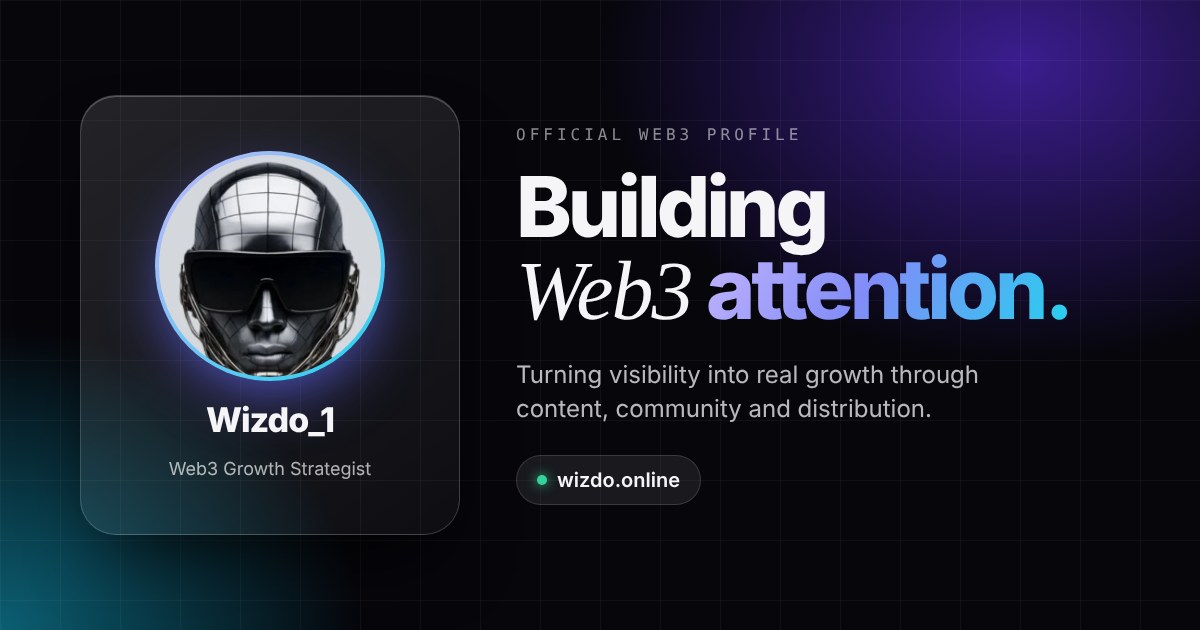
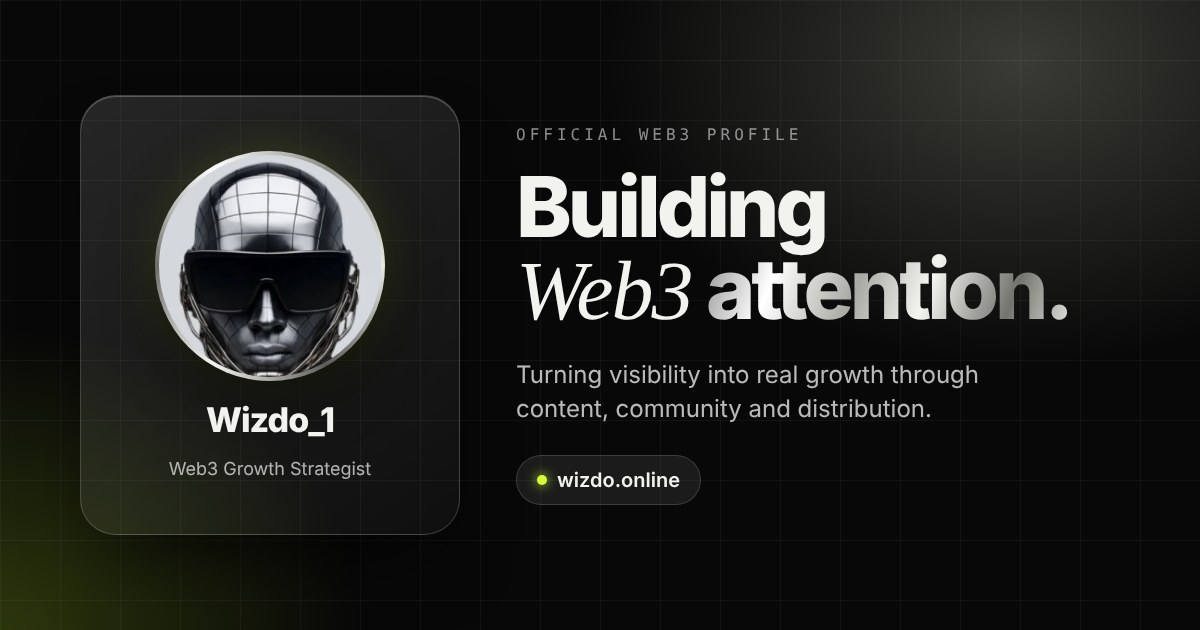
Portfolio: chrome and acid-lime palette, justinn.io credit
- Replace the purple/cyan palette with brushed-chrome text gradients,
  graphite background glows and a single acid-lime accent
- Primary buttons, status dots, progress bar and small highlights use
  the accent; icon tiles are neutral glass
- Regenerate the share image in the new palette
- Footer credit now reads 'Made by justinn.io' linking to Instagram

Claude-Session: https://claude.ai/code/session_013AsVQGULiKKyyoMFEATPju

diff --git a/portfolio/styles.css b/portfolio/styles.css
@@ -4,19 +4,21 @@
    ========================================================= */
 
 :root {
-  --bg: #06060b;
-  --bg-2: #0b0b14;
-  --text: #f5f5f7;
-  --text-2: rgba(245, 245, 247, 0.72);
-  --text-3: rgba(245, 245, 247, 0.48);
+  --bg: #080808;
+  --bg-2: #101010;
+  --text: #f2f2ee;
+  --text-2: rgba(242, 242, 238, 0.70);
+  --text-3: rgba(242, 242, 238, 0.46);
 
-  --violet: #a78bfa;
-  --indigo: #6366f1;
-  --cyan: #22d3ee;
-  --pink: #f472b6;
-  --green: #34d399;
+  /* One accent: acid lime. Everything else is chrome/graphite. */
+  --accent: #d4ff3a;
+  --accent-rgb: 212, 255, 58;
+  --violet: #e8e8e3;   /* legacy name: now silver */
+  --cyan: var(--accent);
+  --green: var(--accent);
 
-  --grad: linear-gradient(120deg, #c4b5fd 0%, #818cf8 35%, #22d3ee 70%, #a5f3fc 100%);
+  /* Brushed chrome, to match the portrait */
+  --grad: linear-gradient(110deg, #8c8c8c 0%, #ffffff 20%, #a9a9a4 42%, #f4f4f0 60%, #74746f 82%, #e9e9e4 100%);
 
   /* Glass material */
   --glass-bg: linear-gradient(145deg, rgba(255, 255, 255, 0.085), rgba(255, 255, 255, 0.025));
@@ -78,7 +80,7 @@ img, svg { display: block; }
   stroke-linecap: round; stroke-linejoin: round;
   overflow: visible;
 }
-::selection { background: rgba(167, 139, 250, 0.4); color: #fff; }
+::selection { background: rgba(255, 255, 255, 0.4); color: #fff; }
 
 :focus-visible {
   outline: 2px solid var(--cyan);
@@ -159,8 +161,8 @@ img, svg { display: block; }
    Background
    ========================================================= */
 .bg { position: fixed; inset: 0; z-index: -2; overflow: hidden; background:
-  radial-gradient(1200px 800px at 80% -10%, #15123a 0%, transparent 60%),
-  radial-gradient(900px 700px at -10% 30%, #0c1d33 0%, transparent 60%),
+  radial-gradient(1200px 800px at 80% -10%, #1b1b1b 0%, transparent 60%),
+  radial-gradient(900px 700px at -10% 30%, #121212 0%, transparent 60%),
   var(--bg); }
 .blob {
   position: absolute;
@@ -169,10 +171,10 @@ img, svg { display: block; }
   opacity: 0.55;
   will-change: transform;
 }
-.b1 { width: 46vmax; height: 46vmax; left: -10vmax; top: -12vmax; background: radial-gradient(circle, #6d28d9 0%, transparent 65%); animation: drift1 24s ease-in-out infinite alternate; }
-.b2 { width: 40vmax; height: 40vmax; right: -12vmax; top: 10vh; background: radial-gradient(circle, #0891b2 0%, transparent 65%); animation: drift2 28s ease-in-out infinite alternate; }
-.b3 { width: 34vmax; height: 34vmax; left: 20vw; bottom: -14vmax; background: radial-gradient(circle, #be185d 0%, transparent 65%); opacity: .35; animation: drift3 32s ease-in-out infinite alternate; }
-.b4 { width: 26vmax; height: 26vmax; right: 18vw; bottom: 10vh; background: radial-gradient(circle, #4338ca 0%, transparent 65%); animation: drift1 36s ease-in-out infinite alternate-reverse; }
+.b1 { width: 46vmax; height: 46vmax; left: -10vmax; top: -12vmax; background: radial-gradient(circle, #4a4a46 0%, transparent 65%); animation: drift1 24s ease-in-out infinite alternate; }
+.b2 { width: 40vmax; height: 40vmax; right: -12vmax; top: 10vh; background: radial-gradient(circle, #3b4512 0%, transparent 65%); animation: drift2 28s ease-in-out infinite alternate; }
+.b3 { width: 34vmax; height: 34vmax; left: 20vw; bottom: -14vmax; background: radial-gradient(circle, #5c5c58 0%, transparent 65%); opacity: .35; animation: drift3 32s ease-in-out infinite alternate; }
+.b4 { width: 26vmax; height: 26vmax; right: 18vw; bottom: 10vh; background: radial-gradient(circle, #2e2e2c 0%, transparent 65%); animation: drift1 36s ease-in-out infinite alternate-reverse; }
 @keyframes drift1 { to { transform: translate3d(14vw, 18vh, 0) scale(1.15); } }
 @keyframes drift2 { to { transform: translate3d(-18vw, 24vh, 0) scale(.9); } }
 @keyframes drift3 { to { transform: translate3d(-10vw, -20vh, 0) scale(1.2); } }
@@ -199,17 +201,17 @@ img, svg { display: block; }
 
 .spotlight {
   position: fixed; inset: 0; z-index: -1; pointer-events: none;
-  background: radial-gradient(600px circle at var(--sx, 50%) var(--sy, 30%), rgba(129, 140, 248, 0.10), transparent 40%);
+  background: radial-gradient(600px circle at var(--sx, 50%) var(--sy, 30%), rgba(255, 255, 255, 0.10), transparent 40%);
   transition: opacity .4s;
 }
 @media (hover: none) { .spotlight { display: none; } }
 
 .progress {
   position: fixed; top: 0; left: 0; right: 0; height: 2px; z-index: 100;
-  background: var(--grad);
+  background: var(--accent);
   transform-origin: 0 50%;
   transform: scaleX(var(--p, 0));
-  box-shadow: 0 0 12px rgba(34, 211, 238, 0.6);
+  box-shadow: 0 0 12px rgba(212, 255, 58, 0.6);
 }
 
 /* =========================================================
@@ -255,19 +257,19 @@ body.loaded .loader { opacity: 0; visibility: hidden; }
   --glass-blur: 22px;
   transition: background .4s, box-shadow .4s;
 }
-.nav-wrap.scrolled .nav { background: linear-gradient(145deg, rgba(20,20,32,0.7), rgba(20,20,32,0.5)); }
+.nav-wrap.scrolled .nav { background: linear-gradient(145deg, rgba(18,18,18,0.7), rgba(18,18,18,0.5)); }
 
 .brand { display: flex; align-items: center; gap: 0; font-family: var(--display); font-weight: 800; letter-spacing: -0.02em; font-size: 17px; z-index: 2; }
 .brand-tld { color: var(--text-3); font-weight: 600; }
-.brand-logo { width: 32px; height: 32px; margin-right: 10px; border-radius: 50%; object-fit: cover; box-shadow: 0 0 0 1.5px rgba(255,255,255,.18), 0 0 0 3px rgba(129,140,248,.35), 0 6px 16px -6px rgba(34,211,238,.6); transition: transform .6s var(--spring); }
+.brand-logo { width: 32px; height: 32px; margin-right: 10px; border-radius: 50%; object-fit: cover; box-shadow: 0 0 0 1.5px rgba(255,255,255,.18), 0 0 0 3px rgba(255,255,255,.35), 0 6px 16px -6px rgba(212,255,58,.6); transition: transform .6s var(--spring); }
 .brand:hover .brand-logo { transform: rotate(-8deg) scale(1.08); }
 .brand-dot {
   width: 10px; height: 10px; border-radius: 50%;
   background: var(--grad);
-  box-shadow: 0 0 14px rgba(34,211,238,.8);
+  box-shadow: 0 0 14px rgba(212,255,58,.8);
   animation: breathe 3s ease-in-out infinite;
 }
-@keyframes breathe { 50% { transform: scale(1.35); box-shadow: 0 0 22px rgba(167,139,250,.9); } }
+@keyframes breathe { 50% { transform: scale(1.35); box-shadow: 0 0 22px rgba(255,255,255,.9); } }
 
 .nav-links { position: relative; display: flex; gap: 2px; z-index: 2; }
 .nav-links a {
@@ -318,11 +320,11 @@ body.loaded .loader { opacity: 0; visibility: hidden; }
 .btn:active { transform: translate(var(--tx), var(--ty)) scale(.96); transition-duration: .15s; }
 .btn-sm { min-height: 44px; padding: 0 18px; font-size: 14px; }
 .btn-primary {
-  color: #0a0a12;
-  background: linear-gradient(180deg, #ffffff 0%, #e7e7ef 100%);
-  box-shadow: 0 1px 0 rgba(255,255,255,.8) inset, 0 10px 30px -10px rgba(167,139,250,.6), 0 0 0 1px rgba(255,255,255,.2);
+  color: #0a0a0a;
+  background: linear-gradient(180deg, #e4ff7a 0%, #c9f52a 100%);
+  box-shadow: 0 1px 0 rgba(255,255,255,.6) inset, 0 10px 30px -12px rgba(212,255,58,.55), 0 0 0 1px rgba(212,255,58,.35);
 }
-.btn-primary:hover { box-shadow: 0 1px 0 rgba(255,255,255,.8) inset, 0 16px 40px -10px rgba(34,211,238,.7), 0 0 0 1px rgba(255,255,255,.3); }
+.btn-primary:hover { box-shadow: 0 1px 0 rgba(255,255,255,.6) inset, 0 18px 44px -10px rgba(212,255,58,.75), 0 0 0 1px rgba(212,255,58,.6); }
 .btn .icon { width: 18px; height: 18px; stroke-width: 2; }
 .btn-primary svg { transition: transform .4s var(--spring); }
 .btn-primary:hover svg { transform: translateX(4px); }
@@ -424,7 +426,7 @@ body.loaded .hero-title .line:nth-child(2) .word:nth-child(2) { transition-delay
 @keyframes hover-y { 50% { translate: 0 -12px; } }
 .id-sheen {
   position: absolute; inset: 0; z-index: 0; pointer-events: none; border-radius: inherit;
-  background: linear-gradient(115deg, transparent 30%, rgba(255,255,255,.14) 45%, rgba(167,139,250,.12) 50%, transparent 62%);
+  background: linear-gradient(115deg, transparent 30%, rgba(255,255,255,.14) 45%, rgba(255,255,255,.12) 50%, transparent 62%);
   background-size: 250% 250%;
   background-position: var(--shx, 100%) 0;
   transition: background-position .3s;
@@ -435,16 +437,16 @@ body.loaded .hero-title .line:nth-child(2) .word:nth-child(2) { transition-delay
 .id-chip {
   font-family: var(--mono); font-weight: 500; font-size: 12px;
   padding: 6px 10px; border-radius: 8px;
-  background: linear-gradient(135deg, rgba(251,191,36,.9), rgba(217,119,6,.9));
-  color: #1a1206; box-shadow: inset 0 1px 0 rgba(255,255,255,.5);
+  background: linear-gradient(135deg, #e4ff7a, #c9f52a);
+  color: #0a0a0a; box-shadow: inset 0 1px 0 rgba(255,255,255,.5);
 }
 .id-no { font-family: var(--mono); font-size: 11px; color: var(--text-3); letter-spacing: .08em; }
 .id-avatar {
   position: relative; width: 140px; height: 140px; margin: 24px auto 18px; overflow: visible;
   display: grid; place-items: center;
   border-radius: 50%;
-  background: radial-gradient(circle at 30% 25%, #c4b5fd, #6366f1 45%, #0e7490 100%);
-  box-shadow: 0 20px 50px -14px rgba(99,102,241,.8), inset 0 2px 0 rgba(255,255,255,.4);
+  background: conic-gradient(from 210deg, #f4f4f0, #6f6f6a, #ffffff, #8c8c87, #e9e9e4, #5c5c58, #f4f4f0);
+  box-shadow: 0 24px 50px -16px rgba(0,0,0,.9), 0 0 40px -10px rgba(212,255,58,.25);
   transform: translateZ(40px);
 }
 .id-avatar picture { position: absolute; inset: 3px; border-radius: 50%; overflow: hidden; }
@@ -480,8 +482,9 @@ body.loaded .hero-title .line:nth-child(2) .word:nth-child(2) { transition-delay
 }
 .chip-ico {
   width: 26px; height: 26px; display: grid; place-items: center; border-radius: 8px;
-  background: linear-gradient(135deg, rgba(167,139,250,.35), rgba(34,211,238,.25));
-  box-shadow: inset 0 1px 0 rgba(255,255,255,.25);
+  color: var(--accent);
+  background: rgba(255,255,255,.08);
+  box-shadow: inset 0 1px 0 rgba(255,255,255,.2);
 }
 .chip-ico .icon { width: 14px; height: 14px; stroke-width: 2; }
 .float { animation: float 6s ease-in-out infinite; }
@@ -514,7 +517,7 @@ body.loaded .hero-title .line:nth-child(2) .word:nth-child(2) { transition-delay
   color: rgba(255,255,255,.75);
   animation: marquee 34s linear infinite;
 }
-.marquee-track .star { width: .42em; height: .42em; color: var(--violet); flex-shrink: 0; }
+.marquee-track .star { width: .42em; height: .42em; color: var(--accent); flex-shrink: 0; }
 .marquee:hover .marquee-track { animation-play-state: paused; }
 @keyframes marquee { to { transform: translateX(-50%); } }
 
@@ -528,7 +531,7 @@ body.loaded .hero-title .line:nth-child(2) .word:nth-child(2) { transition-delay
   text-transform: uppercase; letter-spacing: .14em; color: var(--text-3);
   margin-bottom: 18px;
 }
-.eyebrow::before { content: ""; width: 24px; height: 1px; background: linear-gradient(90deg, var(--violet), var(--cyan)); }
+.eyebrow::before { content: ""; width: 24px; height: 1px; background: var(--accent); }
 .section-title {
   font-family: var(--display); font-weight: 700;
   font-size: clamp(34px, 5.4vw, 64px);
@@ -575,7 +578,7 @@ body.loaded .hero-title .line:nth-child(2) .word:nth-child(2) { transition-delay
 .role > * { position: relative; z-index: 2; }
 .role-ico {
   width: 56px; height: 56px; display: grid; place-items: center;
-  border-radius: 18px; color: #e9e7ff;
+  border-radius: 18px; color: #f2f2ee;
   background: linear-gradient(145deg, rgba(255,255,255,.14), rgba(255,255,255,.03));
   border: 1px solid rgba(255,255,255,.12);
   box-shadow: inset 0 1px 0 rgba(255,255,255,.2), 0 10px 24px -10px rgba(0,0,0,.5);
@@ -593,7 +596,7 @@ body.loaded .hero-title .line:nth-child(2) .word:nth-child(2) { transition-delay
   font-size: 16px; color: var(--text-2);
 }
 .banner strong { color: var(--text); font-weight: 600; }
-.banner-ico { flex-shrink: 0; width: 40px; height: 40px; display: grid; place-items: center; border-radius: 12px; color: var(--cyan); background: rgba(34,211,238,.1); box-shadow: inset 0 0 0 1px rgba(34,211,238,.25); }
+.banner-ico { flex-shrink: 0; width: 40px; height: 40px; display: grid; place-items: center; border-radius: 12px; color: var(--cyan); background: rgba(212,255,58,.1); box-shadow: inset 0 0 0 1px rgba(212,255,58,.25); }
 .banner-ico .icon { width: 20px; height: 20px; }
 
 /* =========================================================
@@ -609,8 +612,8 @@ body.loaded .hero-title .line:nth-child(2) .word:nth-child(2) { transition-delay
   position: relative; aspect-ratio: 16 / 9; overflow: hidden;
   display: grid; place-items: center;
   background:
-    radial-gradient(circle at 25% 20%, hsla(var(--h1), 85%, 65%, .55), transparent 55%),
-    radial-gradient(circle at 80% 85%, hsla(var(--h2), 85%, 55%, .5), transparent 55%),
+    radial-gradient(circle at 25% 20%, hsla(var(--h1), 45%, 60%, .30), transparent 55%),
+    radial-gradient(circle at 80% 85%, hsla(var(--h2), 35%, 50%, .22), transparent 55%),
     linear-gradient(160deg, rgba(255,255,255,.04), rgba(0,0,0,.2));
   border-bottom: 1px solid rgba(255,255,255,.07);
 }
@@ -670,8 +673,8 @@ body.loaded .hero-title .line:nth-child(2) .word:nth-child(2) { transition-delay
 .service-no { font-family: var(--mono); font-size: 13px; color: var(--text-3); }
 .service-ico {
   width: 44px; height: 44px; display: grid; place-items: center; border-radius: 14px;
-  color: #fff;
-  background: linear-gradient(135deg, rgba(167,139,250,.35), rgba(34,211,238,.25));
+  color: var(--accent);
+  background: linear-gradient(145deg, rgba(255,255,255,.12), rgba(255,255,255,.03));
   border: 1px solid rgba(255,255,255,.14);
   box-shadow: inset 0 1px 0 rgba(255,255,255,.25);
   transition: transform .6s var(--spring);
@@ -698,7 +701,7 @@ body.loaded .hero-title .line:nth-child(2) .word:nth-child(2) { transition-delay
 }
 .skill-list li::before {
   content: ""; position: absolute; left: 0; top: 50%; width: 8px; height: 8px; margin-top: -4px;
-  border-radius: 3px; background: var(--grad); transform: rotate(45deg);
+  border-radius: 2px; background: var(--accent); transform: rotate(45deg);
   transition: transform .45s var(--spring);
 }
 @media (hover: hover) {
@@ -743,11 +746,11 @@ body.loaded .hero-title .line:nth-child(2) .word:nth-child(2) { transition-delay
   font-size: clamp(56px, 7vw, 88px); line-height: 1; letter-spacing: -0.05em;
   font-variant-numeric: tabular-nums;
 }
-.stat .plus { background: var(--grad); -webkit-background-clip: text; background-clip: text; color: transparent; }
+.stat .plus { color: var(--accent); }
 .stat-word { background: var(--grad); background-size: 200% auto; -webkit-background-clip: text; background-clip: text; color: transparent; animation: shimmer 6s linear infinite; }
 .stat-label { margin-top: 12px; color: var(--text-2); font-weight: 500; }
 .stat-bar { margin-top: 24px; height: 4px; border-radius: 4px; background: rgba(255,255,255,.07); overflow: hidden; }
-.stat-bar i { display: block; height: 100%; width: var(--w); border-radius: inherit; background: var(--grad); transform: scaleX(0); transform-origin: 0 50%; transition: transform 1.6s var(--ease) .3s; }
+.stat-bar i { display: block; height: 100%; width: var(--w); border-radius: inherit; background: var(--accent); box-shadow: 0 0 12px rgba(212,255,58,.5); transform: scaleX(0); transform-origin: 0 50%; transition: transform 1.6s var(--ease) .3s; }
 .stat-card.in .stat-bar i { transform: scaleX(1); }
 
 /* =========================================================
@@ -764,7 +767,7 @@ body.loaded .hero-title .line:nth-child(2) .word:nth-child(2) { transition-delay
 .contact-glow {
   position: absolute !important; z-index: 0 !important; inset: auto; left: 50%; top: -40%;
   width: 120%; aspect-ratio: 1; transform: translateX(-50%);
-  background: conic-gradient(from 0deg, rgba(167,139,250,.35), rgba(34,211,238,.25), rgba(244,114,182,.25), rgba(167,139,250,.35));
+  background: conic-gradient(from 0deg, rgba(255,255,255,.18), rgba(212,255,58,.22), rgba(255,255,255,.08), rgba(255,255,255,.18));
   filter: blur(80px); border-radius: 50%; opacity: .55;
   animation: spin 20s linear infinite;
 }
@@ -827,13 +830,13 @@ body.loaded .hero-title .line:nth-child(2) .word:nth-child(2) { transition-delay
   clip-path: circle(0px at var(--ox) var(--oy));
   transition: clip-path .8s cubic-bezier(.76, 0, .24, 1), visibility 0s .8s;
   visibility: hidden;
-  background: linear-gradient(180deg, rgba(10,9,22,.86), rgba(6,6,11,.94));
+  background: linear-gradient(180deg, rgba(14,14,14,.86), rgba(8,8,8,.94));
   -webkit-backdrop-filter: blur(30px) saturate(170%); backdrop-filter: blur(30px) saturate(170%);
 }
 .menu.open { clip-path: circle(150vmax at var(--ox) var(--oy)); visibility: visible; transition: clip-path .9s cubic-bezier(.76, 0, .24, 1), visibility 0s; }
 .menu-bg i { position: absolute; border-radius: 50%; filter: blur(70px); opacity: .5; }
-.menu-bg i:first-child { width: 70vw; height: 70vw; top: -10vw; right: -20vw; background: radial-gradient(circle, #6d28d9, transparent 65%); }
-.menu-bg i:last-child { width: 80vw; height: 80vw; bottom: -20vw; left: -30vw; background: radial-gradient(circle, #0891b2, transparent 65%); }
+.menu-bg i:first-child { width: 70vw; height: 70vw; top: -10vw; right: -20vw; background: radial-gradient(circle, #4a4a46, transparent 65%); }
+.menu-bg i:last-child { width: 80vw; height: 80vw; bottom: -20vw; left: -30vw; background: radial-gradient(circle, #3b4512, transparent 65%); }
 .menu-inner {
   position: relative; height: 100%;
   display: flex; flex-direction: column;
@@ -943,3 +946,7 @@ body.menu-open .nav-wrap .nav { background: rgba(255,255,255,.06); }
 @media (prefers-reduced-transparency: reduce) {
   .glass { background: rgba(22, 22, 34, 0.96); -webkit-backdrop-filter: none; backdrop-filter: none; }
 }
+
+/* Footer credit */
+.credit { color: var(--text); border-bottom: 1px solid rgba(var(--accent-rgb), .5); transition: color .3s, border-color .3s; }
+.credit:hover { color: var(--accent); border-color: var(--accent); }

diff --git a/portfolio/index.html b/portfolio/index.html
@@ -10,7 +10,7 @@
   <meta name="creator" content="Wizdo_1" />
   <meta name="robots" content="index, follow, max-image-preview:large, max-snippet:-1" />
   <link rel="canonical" href="https://wizdo.online/" />
-  <meta name="theme-color" content="#06060b" />
+  <meta name="theme-color" content="#080808" />
   <meta name="color-scheme" content="dark" />
   <meta name="format-detection" content="telephone=no" />
   <meta name="apple-mobile-web-app-title" content="Wizdo_1" />
@@ -426,7 +426,7 @@
         </div>
 
         <figure class="manifesto glass reveal">
-          <svg class="manifesto-mark" aria-hidden="true" viewBox="0 0 64 48"><defs><linearGradient id="qg" x1="0" y1="0" x2="1" y2="1"><stop offset="0" stop-color="#c4b5fd"/><stop offset="1" stop-color="#22d3ee"/></linearGradient></defs><path fill="url(#qg)" d="M0 48V28C0 12 8 2 24 0l3 6C17 9 13 16 13 24h11v24H0Zm36 0V28C36 12 44 2 60 0l3 6c-10 3-14 10-14 18h11v24H36Z"/></svg>
+          <svg class="manifesto-mark" aria-hidden="true" viewBox="0 0 64 48"><defs><linearGradient id="qg" x1="0" y1="0" x2="1" y2="1"><stop offset="0" stop-color="#ffffff"/><stop offset="1" stop-color="#7a7a75"/></linearGradient></defs><path fill="url(#qg)" d="M0 48V28C0 12 8 2 24 0l3 6C17 9 13 16 13 24h11v24H0Zm36 0V28C36 12 44 2 60 0l3 6c-10 3-14 10-14 18h11v24H36Z"/></svg>
           <blockquote>The strongest Web3 ecosystems are built through <span class="gradient-text">trust, consistency</span> and meaningful community participation.</blockquote>
           <figcaption>
             <p>I help projects build authentic engagement through useful content, strategic storytelling and creator-focused ecosystem growth.</p>
@@ -498,7 +498,7 @@
         <img class="footer-logo" src="assets/avatar-96.webp" alt="" width="36" height="36" loading="lazy" />
         <div>
           <div class="footer-brand">Run by Wizdo_1 · Web3 Growth Strategist</div>
-          <small class="muted">© <span id="year"></span> · No demons were harmed in the making of this site.</small>
+          <small class="muted">© <span id="year"></span> · Made by <a href="https://www.instagram.com/justinn.io" target="_blank" rel="noopener" class="credit">justinn.io</a></small>
         </div>
       </div>
       <a href="#home" class="to-top glass magnetic" aria-label="Back to top">
